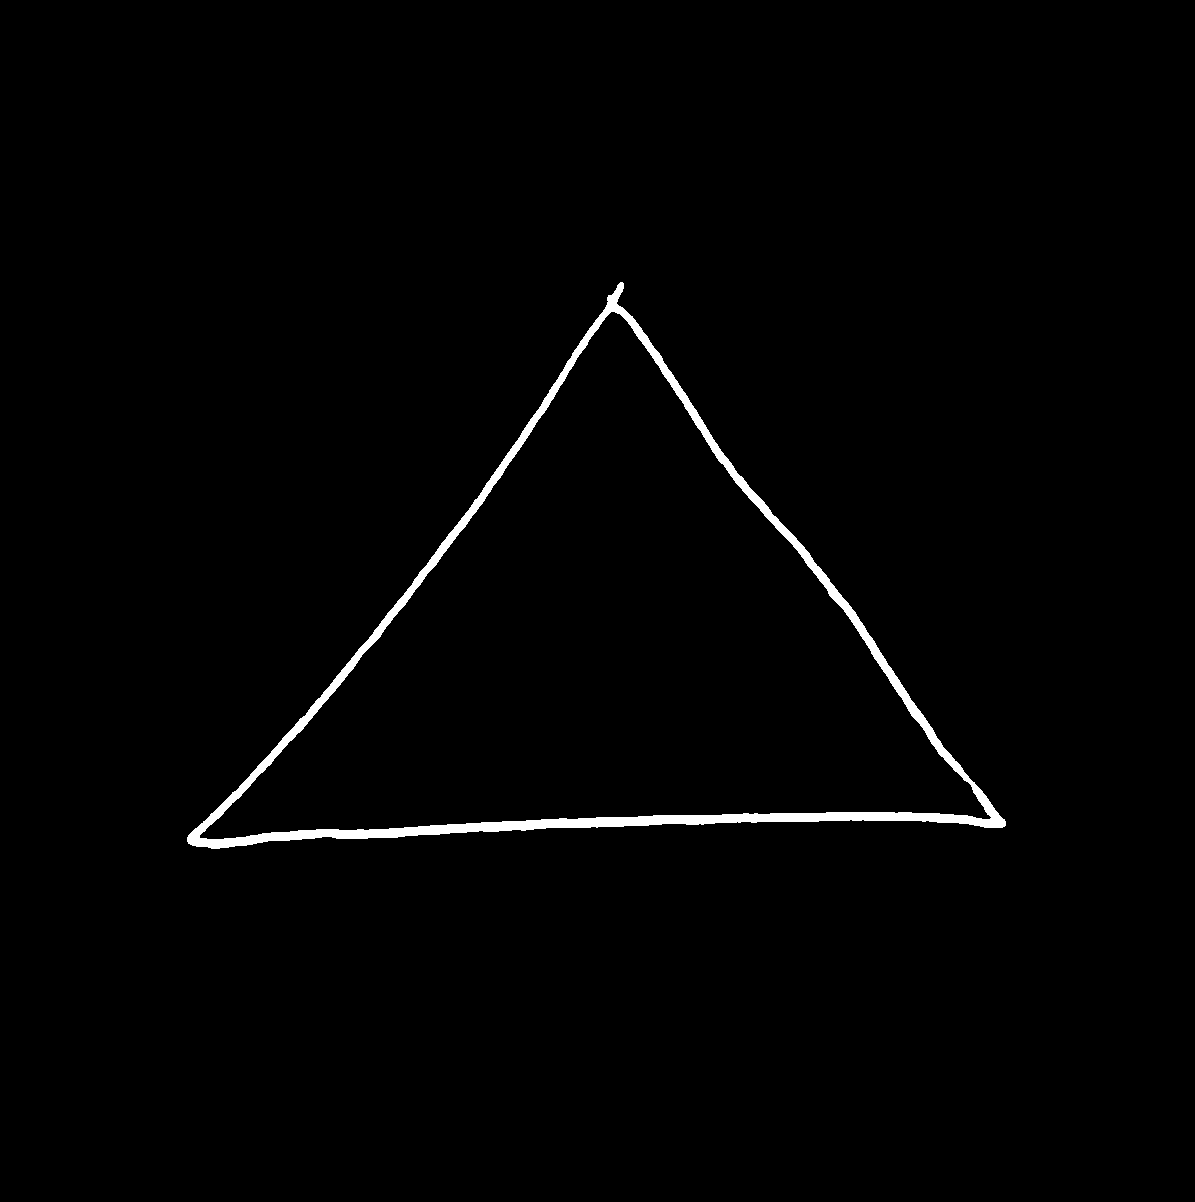
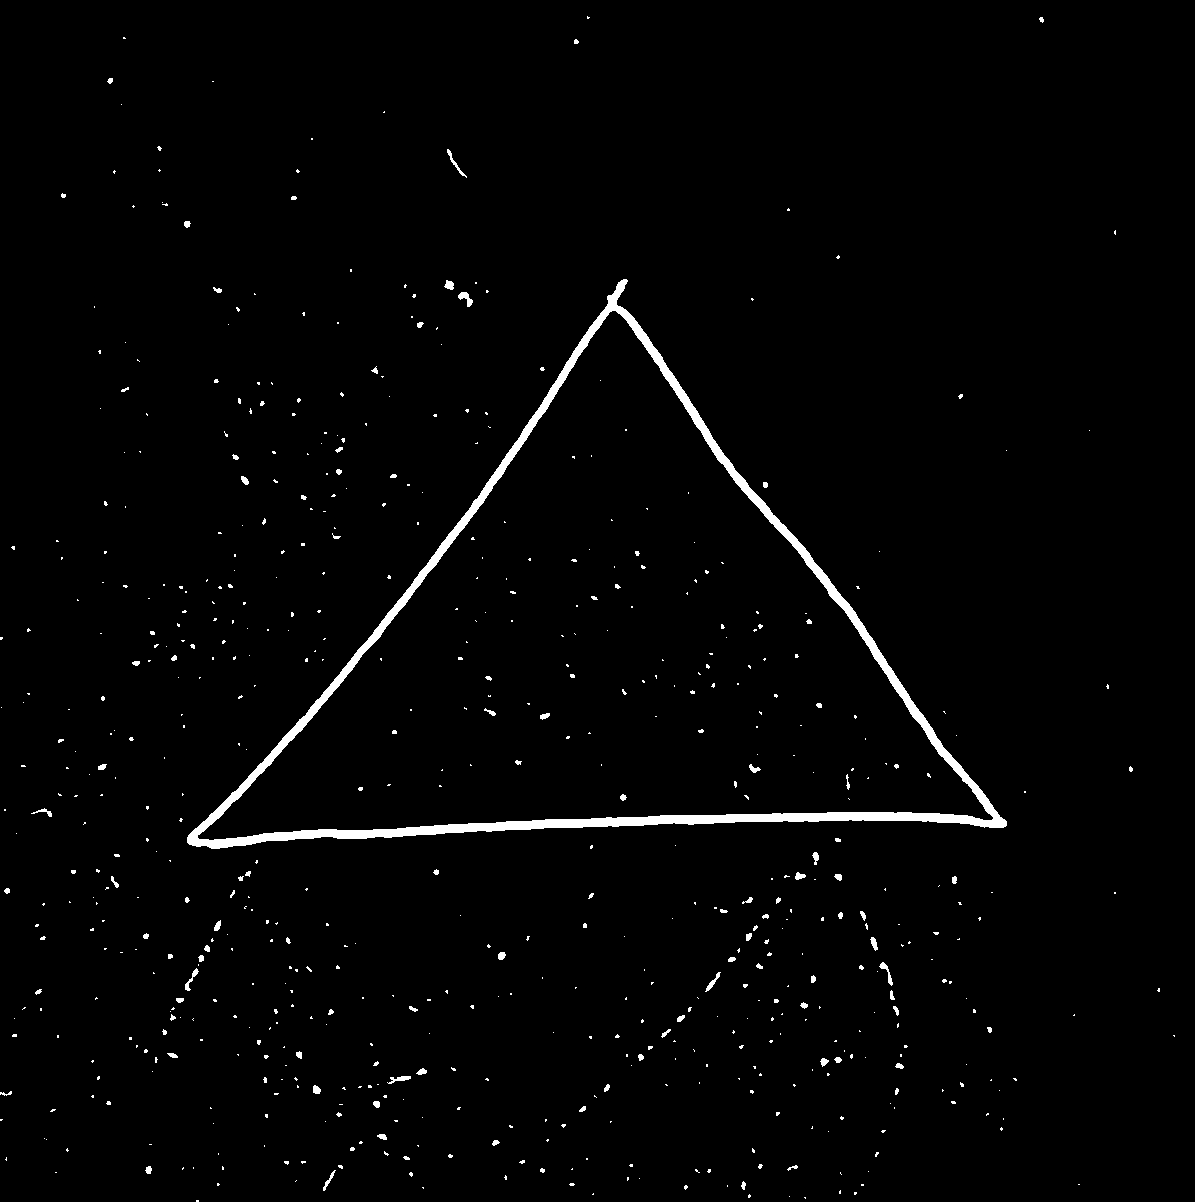
Переделали структуру

diff --git a/src/main/java/svd/recognizer/processing/ImagePreprocessor.java b/src/main/java/svd/recognizer/processing/ImagePreprocessor.java
@@ -21,6 +21,7 @@ import org.opencv.core.Rect;
 import org.opencv.core.Scalar;
 import org.opencv.core.Size;
 import org.opencv.imgcodecs.Imgcodecs;
+import org.opencv.imgproc.CLAHE;
 import org.opencv.imgproc.Imgproc;
 
 public class ImagePreprocessor {
@@ -29,23 +30,20 @@ public class ImagePreprocessor {
     private static final int BBOX_PADDING = 12;
 
     /**
-     * Включает/выключает сохранение промежуточных изображений.
-     * Когда закончишь отладку, можно поставить false.
+     * Включает/выключает сохранение промежуточных изображений. Когда закончишь
+     * отладку, можно поставить false.
      */
     private static final boolean DEBUG_SAVE = true;
 
     /**
-     * Корневая папка для отладочных изображений.
-     * Внутри неё для каждого входного файла создаётся отдельная подпапка.
+     * Корневая папка для отладочных изображений. Внутри неё для каждого
+     * входного файла создаётся отдельная подпапка.
      */
     private static final String DEBUG_DIR = "debug-preprocess";
 
     /**
      * Канонический треугольник, к которому приводим все входные треугольники.
-     * Формат 64x64:
-     * - верхняя вершина
-     * - нижняя левая
-     * - нижняя правая
+     * Формат 64x64: - верхняя вершина - нижняя левая - нижняя правая
      */
     private static final Point[] CANONICAL = {
         new Point(32, 4),
@@ -54,6 +52,7 @@ public class ImagePreprocessor {
     };
 
     public static class PreprocessResult {
+
         private final BufferedImage image;
         private final double[][] matrix;
 
@@ -84,7 +83,7 @@ public class ImagePreprocessor {
         Mat gray = toGrayscale(source);
         saveDebugMat(debugName, "01_source_gray.png", gray);
 
-        Mat binary = binarizeOtsu(gray);
+        Mat binary = binarize(gray);
         saveDebugMat(debugName, "02_binary_otsu.png", binary);
 
         Mat cleaned = morphClean(binary);
@@ -117,33 +116,64 @@ public class ImagePreprocessor {
         return gray;
     }
 
-    private Mat binarizeOtsu(Mat gray) {
-        Mat blurred = new Mat();
-        Mat binary = new Mat();
+    /**
+     * Бинаризация для фото на телефон при плохом освещении.
+     *
+     * Шаги: 1. CLAHE — выравнивает локальный контраст, вытягивает слабые линии.
+     * 2. GaussianBlur 9x9 — убирает шум, неизбежный при плохом освещении. 3.
+     * adaptiveThreshold — бинаризует локально, не зависит от общей яркости.
+     *
+     * Почему не Отсу: Отсу ищет один глобальный порог. При тени в углу или
+     * неравномерном освещении этот порог "улетает" в пользу одной области, и в
+     * другой области линия либо теряется, либо фон становится белым.
+     */
+    private Mat binarize(Mat gray) {
+        // Шаг 1: CLAHE — адаптивное выравнивание гистограммы
+        // clipLimit = 2.0 — умеренно, чтобы не усиливать шум
+        // tileGridSize 8x8 — достаточно мелко для неравномерного освещения
+        CLAHE clahe = Imgproc.createCLAHE(2.0, new Size(8, 8));
+        Mat equalized = new Mat();
+        clahe.apply(gray, equalized);
 
-        Imgproc.GaussianBlur(gray, blurred, new Size(5, 5), 0.0);
-        Imgproc.threshold(
+        // Шаг 2: Размытие для подавления шума
+        Mat blurred = new Mat();
+        Imgproc.GaussianBlur(equalized, blurred, new Size(9, 9), 0.0);
+
+        // Шаг 3: Адаптивная бинаризация
+        // ADAPTIVE_THRESH_GAUSSIAN_C — взвешенное среднее по соседям (лучше для рукописи)
+        // THRESH_BINARY_INV — линия белая, фон чёрный
+        // blockSize 31 — размер блока, подбирается под масштаб линии на фото
+        // C = 10 — вычитаемая константа, убирает мелкий шум в фоне
+        Mat binary = new Mat();
+        Imgproc.adaptiveThreshold(
                 blurred,
                 binary,
-                0,
                 255,
-                Imgproc.THRESH_BINARY_INV + Imgproc.THRESH_OTSU
+                Imgproc.ADAPTIVE_THRESH_GAUSSIAN_C,
+                Imgproc.THRESH_BINARY_INV,
+                31,
+                10
         );
 
         return binary;
     }
 
     private Mat morphClean(Mat binary) {
-        Mat kernel = Imgproc.getStructuringElement(
-                Imgproc.MORPH_RECT,
-                new Size(3, 3)
-        );
+        // Ядро 5x5 для CLOSE — рваные линии от плохого освещения требуют
+        // более агрессивного закрытия разрывов.
+        Mat kernelClose = Imgproc.getStructuringElement(
+                Imgproc.MORPH_RECT, new Size(5, 5));
+
+        // Ядро 3x3 для OPEN — не переусердствуем с удалением шума,
+        // чтобы не "съесть" тонкие части линии.
+        Mat kernelOpen = Imgproc.getStructuringElement(
+                Imgproc.MORPH_RECT, new Size(3, 3));
 
         Mat closed = new Mat();
         Mat opened = new Mat();
 
-        Imgproc.morphologyEx(binary, closed, Imgproc.MORPH_CLOSE, kernel);
-        Imgproc.morphologyEx(closed, opened, Imgproc.MORPH_OPEN, kernel);
+        Imgproc.morphologyEx(binary, closed, Imgproc.MORPH_CLOSE, kernelClose);
+        Imgproc.morphologyEx(closed, opened, Imgproc.MORPH_OPEN, kernelOpen);
 
         return opened;
     }
@@ -286,14 +316,12 @@ public class ImagePreprocessor {
     }
 
     /**
-     * Пытается прочитать 3 вершины треугольника из Mat,
-     * который вернул minEnclosingTriangle.
+     * Пытается прочитать 3 вершины треугольника из Mat, который вернул
+     * minEnclosingTriangle.
      *
-     * В зависимости от сборки OpenCV Java формат может отличаться.
-     * Здесь покрываем самые типичные варианты:
-     * - rows=3, cols=1, channels=2
-     * - rows=3, cols=2, channels=1
-     * - rows=1, cols=3, channels=2
+     * В зависимости от сборки OpenCV Java формат может отличаться. Здесь
+     * покрываем самые типичные варианты: - rows=3, cols=1, channels=2 - rows=3,
+     * cols=2, channels=1 - rows=1, cols=3, channels=2
      */
     private Point[] readTrianglePoints(Mat triangle) {
         if (triangle == null || triangle.empty()) {
@@ -496,8 +524,8 @@ public class ImagePreprocessor {
         byte[] sourceData = new byte[(int) (normalized.total() * normalized.channels())];
         normalized.get(0, 0, sourceData);
 
-        byte[] targetData =
-                ((DataBufferByte) image.getRaster().getDataBuffer()).getData();
+        byte[] targetData
+                = ((DataBufferByte) image.getRaster().getDataBuffer()).getData();
 
         System.arraycopy(sourceData, 0, targetData, 0, sourceData.length);
 
